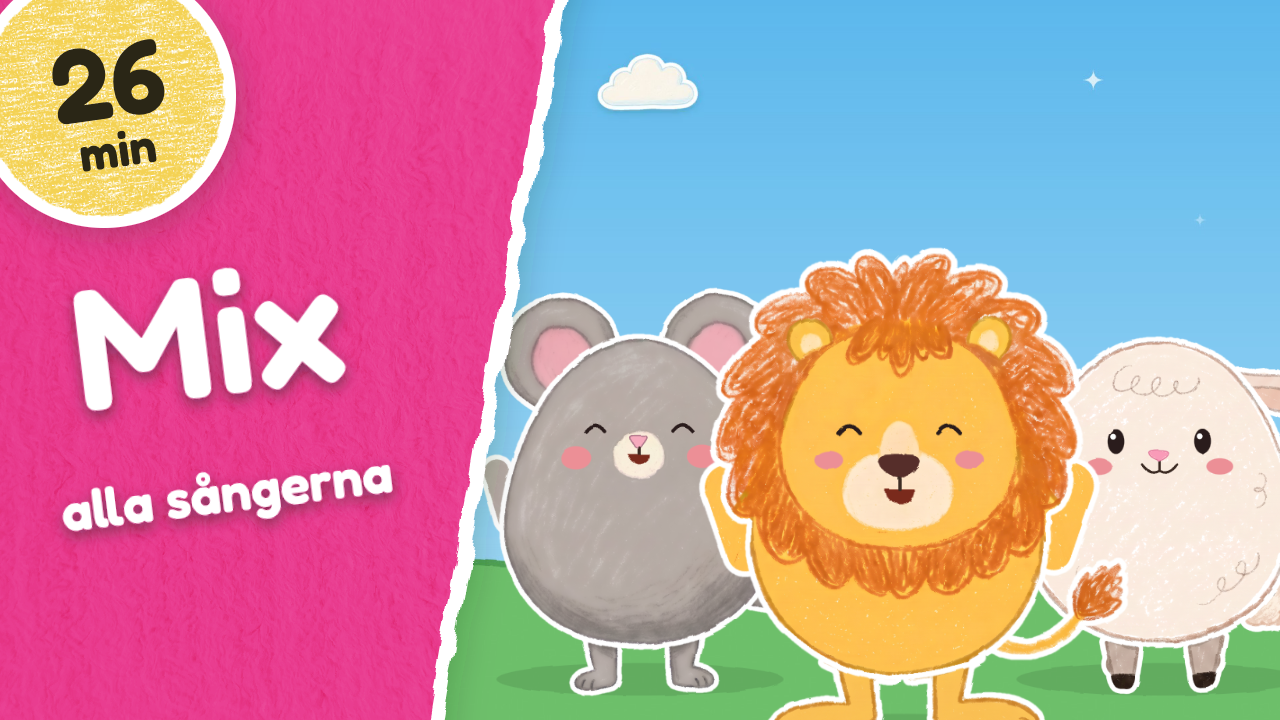
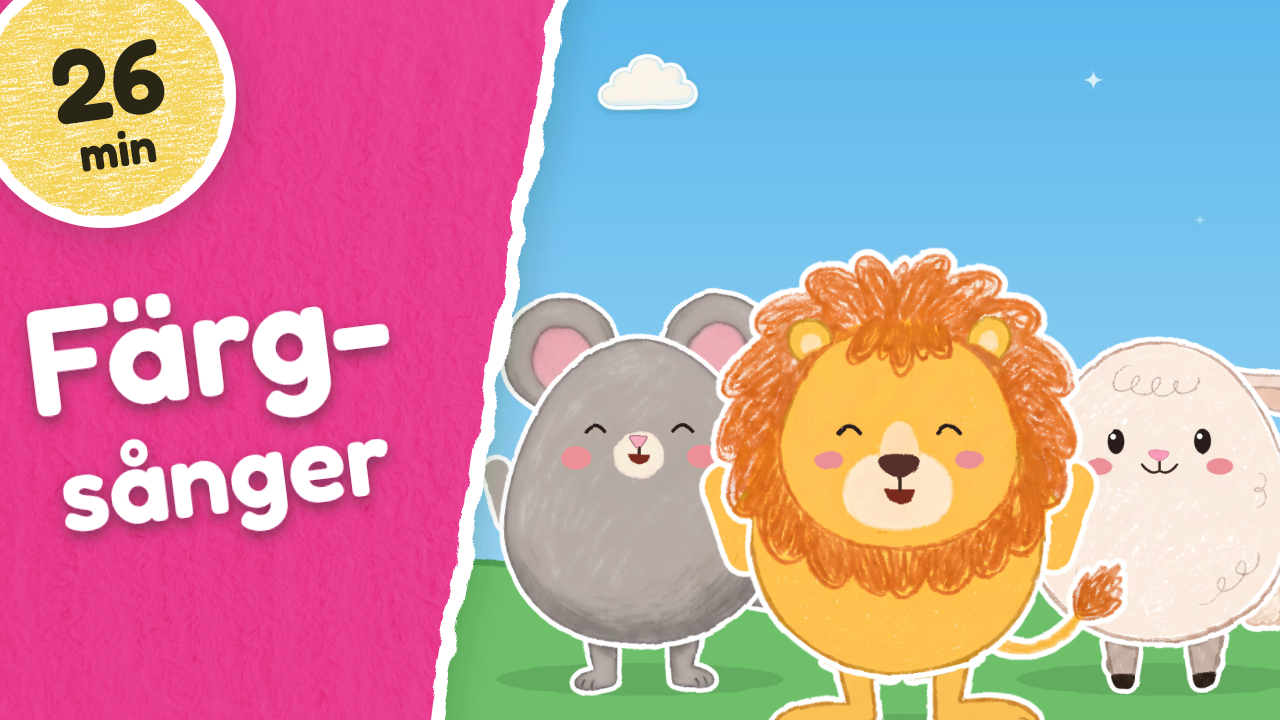
Mix 4: miniatyren säger Färgsånger, uppladdad till videon

Changed region(s): [[0.0, 0.3667, 0.3125, 0.7639]]

diff --git a/verktyg/miniatyr.html b/verktyg/miniatyr.html
@@ -124,7 +124,7 @@ const MINIATYRER = [
   { id:'sov-gott-kaninen', bild:'produktion/youtube/sov-gott/kaninen-sover/thumbnail/miniatyr-utan-text.png', farg:'#4A5BB0', hjalte:[1.2, 900, 620],   // bild 10 s ur kaninen-sover-1h.mp4, spegelvänd så att kaninen ligger till höger
     sv:{ tid:'60:00', cirkel:['1','timme'], titel:['Sov gott','vaggvisor','på piano'], yt:'Sov gott 🌙🐰 | 1 timme vaggvisor på piano att somna till – kaninen sover | lilla kritan' } },   // bara svenska
   { id:'mix-4', ut:'produktion/youtube/mix/mix-4/thumbnail', bild:'produktion/youtube/mix/mix-4/thumbnail/miniatyr-utan-text.png', farg:'#E93C8F',   // hjälten: thumbnail/hjalte/ (musen, lejonet och lammet på introts himmel och gräs); rosa strimma, så att den skiljer sig från mix 3:s gula
-    sv:{ tid:'26:17', titel:['Mix','alla sångerna'], yt:'Alla sångerna! 🎨🪥 Nio barnsånger i 26 minuter | Lilla Kritan' } },
+    sv:{ tid:'26:17', titel:['Färg-','sånger'], yt:'Färgsånger! 🎨 Rosa, röda, bruna och gula sången + fler barnsånger | Lilla Kritan' } },
   { id:'mix-3', ut:'produktion/youtube/mix/mix-3/thumbnail', bild:'produktion/youtube/mix/mix-3/thumbnail/miniatyr-utan-text.png', farg:'#F2C230',   // hjälten: thumbnail/hjalte/ (grisen, kaninen och hunden nära, på det nya introts himmel och gräs; egen bild, inte 013:s)
     sv:{ tid:'46:34', titel:['Mix','sjung, lek, gissa'], yt:'Stor mix: sjung, lek och gissa! 🎨 Över 45 minuter barnsånger, Tittut och bilderböcker | lilla kritan' } },
   { id:'mix-2', ut:'produktion/youtube/mix/mix-2/thumbnail', bild:'avsnitt/005-rosa-bilen/thumbnail/miniatyr-utan-text.png', farg:'#8E44C9', hjalte:[1.15, 915, 660],

diff --git a/produktion/youtube/mix/mix-4/youtube.md b/produktion/youtube/mix/mix-4/youtube.md
@@ -1,6 +1,6 @@
 # Mix 4 – Alla sångerna – text till YouTube
 
-Filen: `mix-4.mp4` (byggs med `satt-ihop.sh`). Introt: `intro/` (Mix 3:s intro i gult med titeln "Mix · alla sångerna", 9,0 s; renderas med `node avsnitt/004-bussen-badar/scener/render.mjs produktion/youtube/mix/mix-4/intro`). Miniatyr: `thumbnail/miniatyr-strimma.png` (`node verktyg/miniatyr-render.mjs mix-4`): rosa strimma, "Mix · alla sångerna", "26 min", egen hjältebild (`thumbnail/hjalte/`: musen, lejonet och lammet på introts himmel och gräs; `node thumbnail/hjalte/figurer.mjs` och `render.mjs` från repots rot, de startar sin egen server).
+Filen: `mix-4.mp4` (byggs med `satt-ihop.sh`). Introt: `intro/` (Mix 3:s intro i gult med titeln "Mix · alla sångerna", 9,0 s; renderas med `node avsnitt/004-bussen-badar/scener/render.mjs produktion/youtube/mix/mix-4/intro`). Miniatyr: `thumbnail/miniatyr-strimma.png` (`node verktyg/miniatyr-render.mjs mix-4`): rosa strimma, "Färg- / sånger" (14 nov, förut "Mix · alla sångerna"; den förra bilden ligger som `miniatyr-strimma-forra.png`), "26 min", egen hjältebild (`thumbnail/hjalte/`: musen, lejonet och lammet på introts himmel och gräs; `node thumbnail/hjalte/figurer.mjs` och `render.mjs` från repots rot, de startar sin egen server).
 
 **Publicerad 14 nov 2026 (offentlig):** https://studio.youtube.com/video/rvq6PHpKOK0/edit · https://youtu.be/rvq6PHpKOK0 (26:17, 10 kapitel, egen miniatyr `miniatyr-strimma.png`). Titeln ändrad samma dag så att färgsångerna syns (förut "Alla sångerna! 🎨🪥 Nio barnsånger i 26 minuter"). Spellistor satta: lilla kritan – alla avsnitt, Färgsånger – lär dig färgerna, Barnsånger för de minsta – sjung med. Gjort för barn: ja, språk svenska.
 
